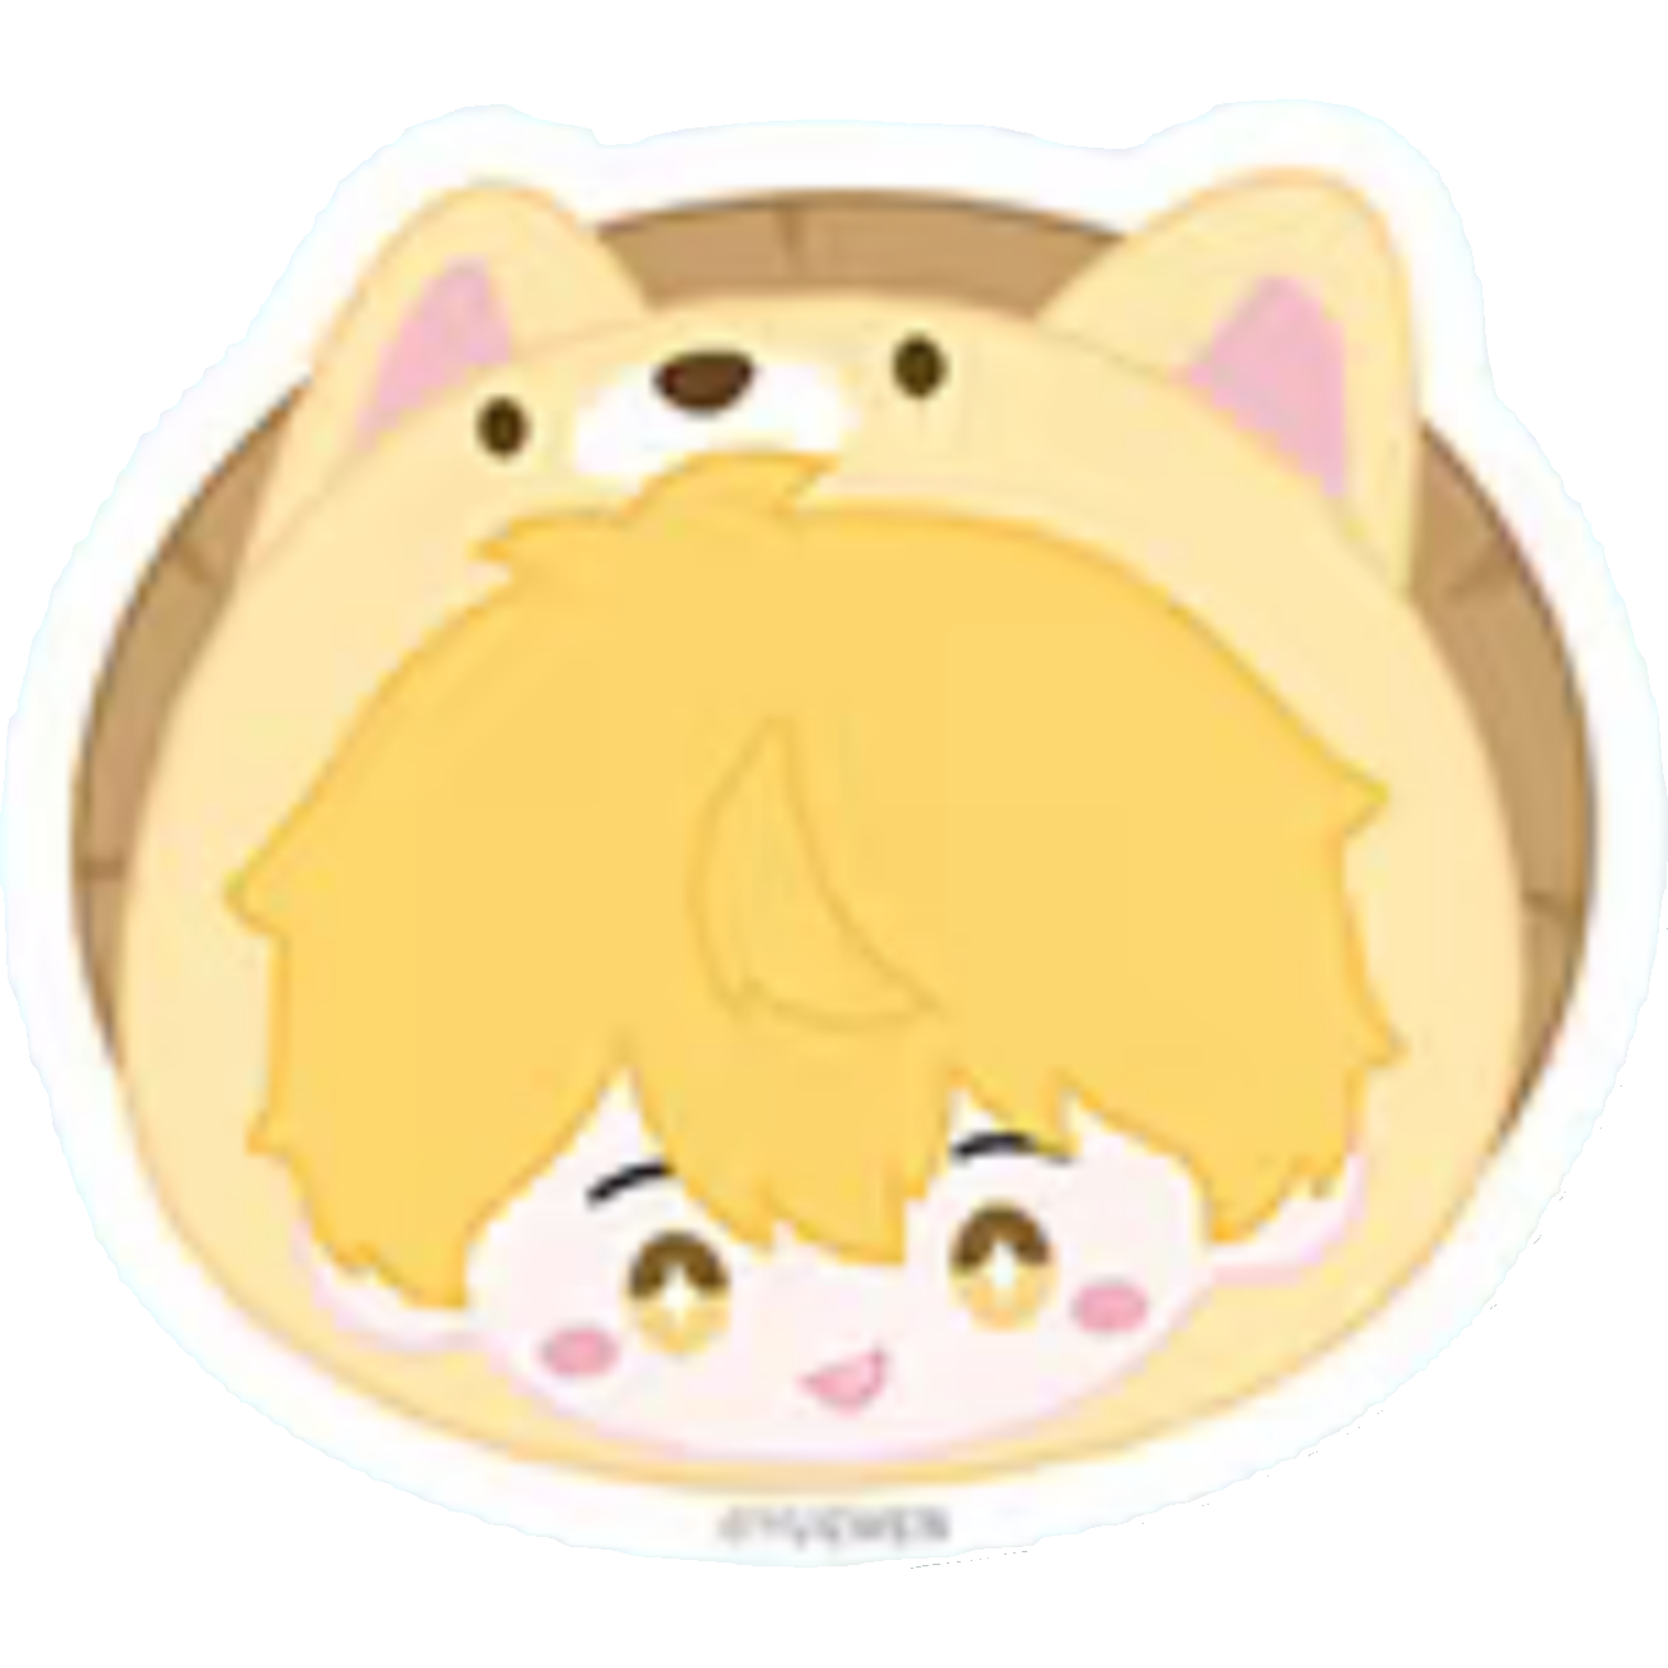
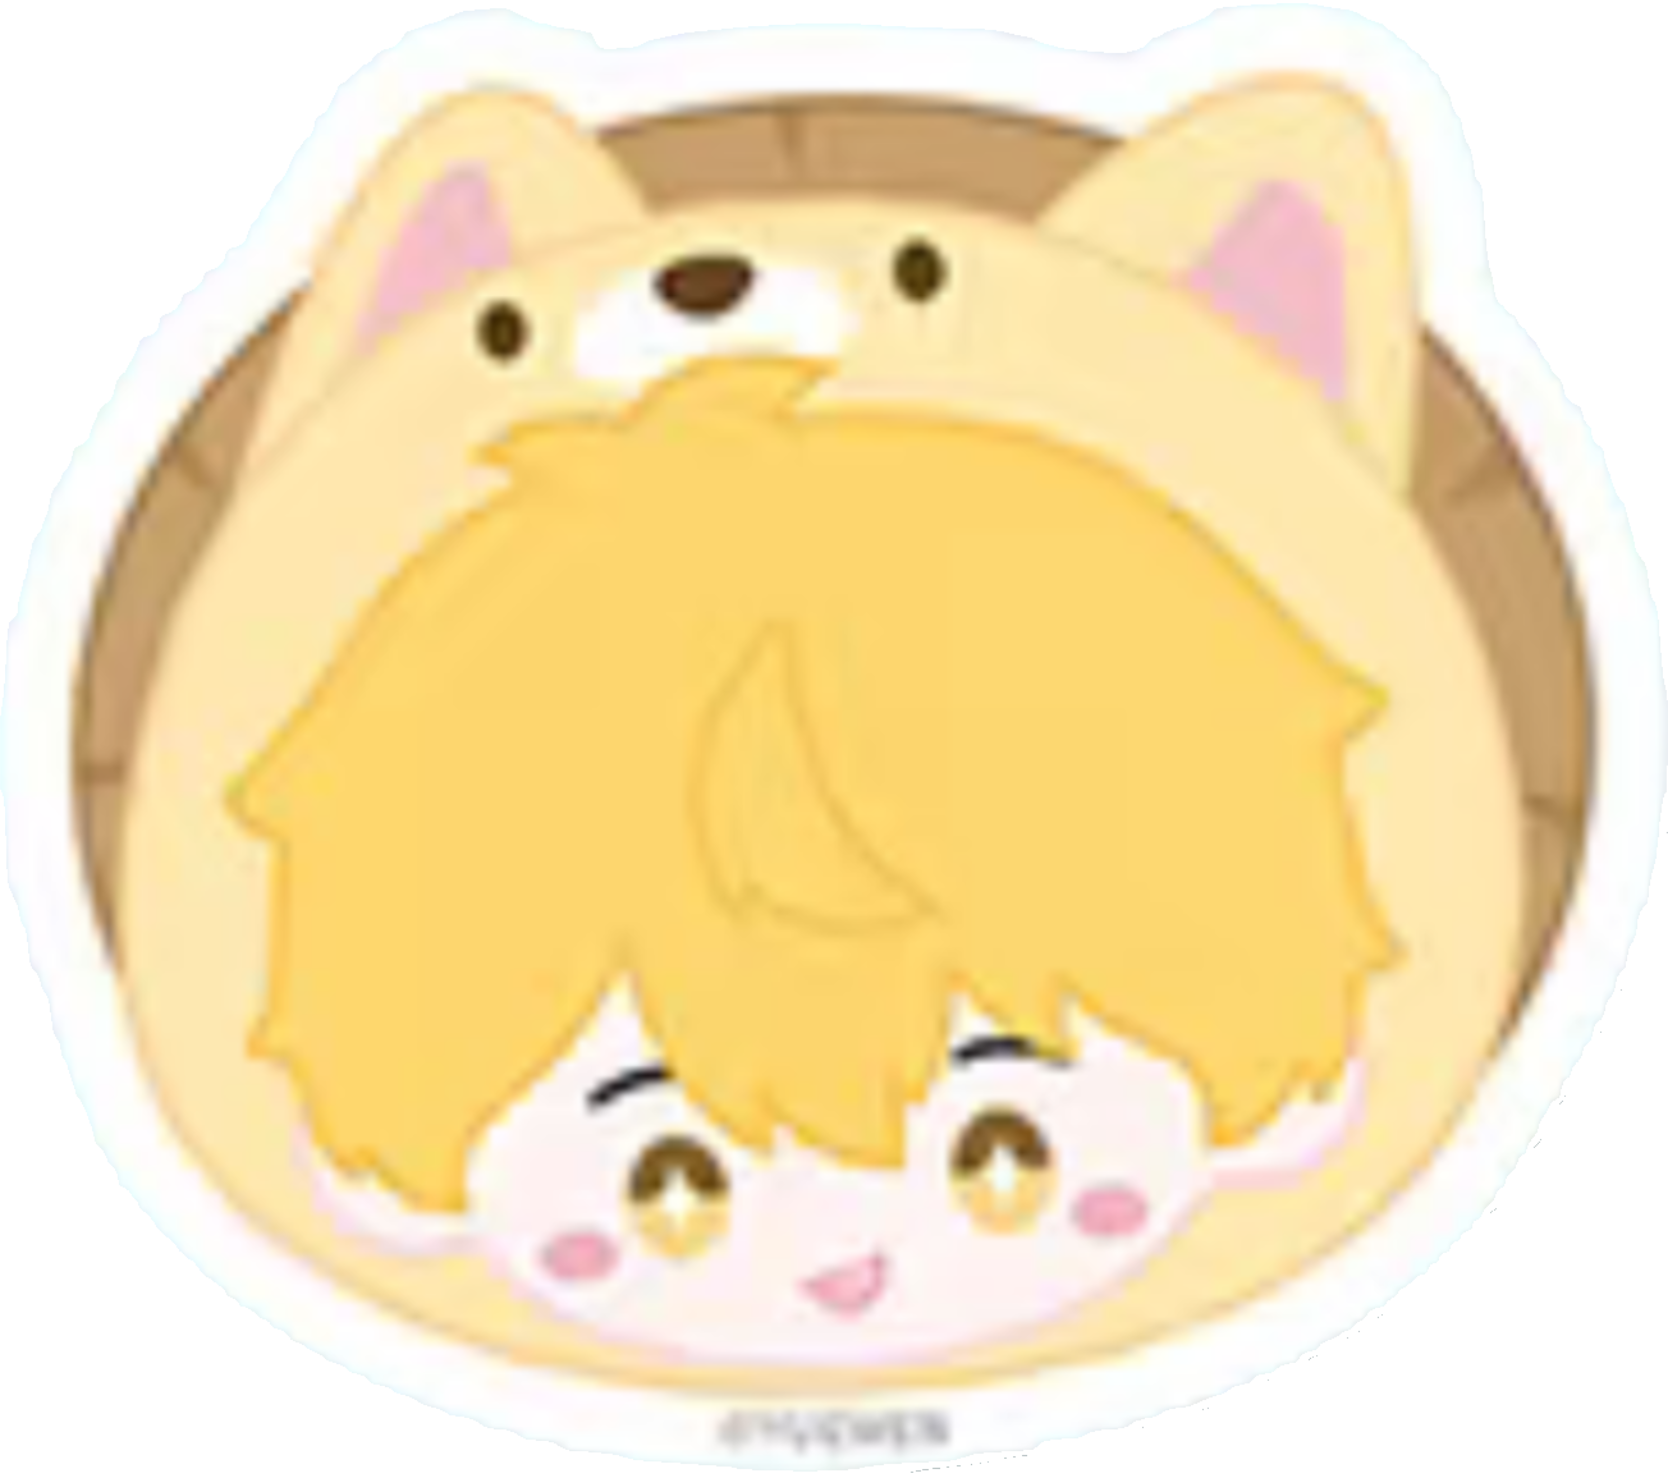
Finalize Windows companion visuals and packaging

diff --git a/Windows/CharacterEfficiencyIsland.Windows/Core/Models.cs b/Windows/CharacterEfficiencyIsland.Windows/Core/Models.cs
@@ -51,10 +51,14 @@ public sealed class AppProfile
     public string StorageId { get; set; } = "CharacterEfficiencyIsland";
     public string MutexId { get; set; } = "com.example.character-efficiency-island.windows";
     public string CompanionStatusText { get; set; } = "稳步推进";
+    public string CompanionBreakStatusText { get; set; } = "休息中";
     public Dictionary<string, string> Titles { get; set; } = new();
     public Dictionary<string, string> Details { get; set; } = new();
     public Dictionary<string, string> IslandAssets { get; set; } = new();
     public Dictionary<string, string> PanelAssets { get; set; } = new();
+    public Dictionary<string, int> CompanionCropLeft { get; set; } = new();
+    public Dictionary<string, int> CompanionCropTop { get; set; } = new();
+    public Dictionary<string, int> CompanionCropRight { get; set; } = new();
     public Dictionary<string, int> CompanionCropBottom { get; set; } = new();
     public List<SoftReminder> Reminders { get; set; } = new();
     public Dictionary<string, PanelPlacement> PanelPlacements { get; set; } = new();
@@ -94,8 +98,11 @@ public sealed class AppProfile
         });
     public PanelPlacement Placement(CharacterMode mode) =>
         PanelPlacements.TryGetValue(ModeKey(mode), out var value) ? value : new PanelPlacement();
+    public int CompanionLeftCrop(CharacterMode mode) => Crop(CompanionCropLeft, mode);
+    public int CompanionTopCrop(CharacterMode mode) => Crop(CompanionCropTop, mode);
+    public int CompanionRightCrop(CharacterMode mode) => Crop(CompanionCropRight, mode);
     public int CompanionBottomCrop(CharacterMode mode) =>
-        CompanionCropBottom.TryGetValue(ModeKey(mode), out var value) ? Math.Max(0, value) : 0;
+        Crop(CompanionCropBottom, mode);
 
     public static string ModeKey(CharacterMode mode) => mode switch
     {
@@ -109,6 +116,8 @@ public sealed class AppProfile
 
     private static string Value(Dictionary<string, string> source, string key, string fallback) =>
         source.TryGetValue(key, out var value) && !string.IsNullOrWhiteSpace(value) ? value : fallback;
+    private static int Crop(Dictionary<string, int> source, CharacterMode mode) =>
+        source.TryGetValue(ModeKey(mode), out var value) ? Math.Max(0, value) : 0;
 }
 
 public sealed class AppSettings

diff --git a/Windows/CharacterEfficiencyIsland.Windows/Core/AssetLoader.cs b/Windows/CharacterEfficiencyIsland.Windows/Core/AssetLoader.cs
@@ -13,28 +13,32 @@ internal static class AssetLoader
     public static ImageSource Image(
         string assetName,
         int rotationDegrees = 0,
+        int cropLeft = 0,
         int cropTop = 0,
+        int cropRight = 0,
         int cropBottom = 0)
     {
-        if (rotationDegrees == 0 && cropTop == 0 && cropBottom == 0)
+        if (rotationDegrees == 0 && cropLeft == 0 && cropTop == 0 && cropRight == 0 && cropBottom == 0)
         {
             return ImageFromPack(assetName, $"/Assets/{assetName}.png");
         }
 
-        var cacheKey = $"{assetName}|rotation:{rotationDegrees}|crop-top:{cropTop}|crop-bottom:{cropBottom}";
+        var cacheKey = $"{assetName}|rotation:{rotationDegrees}|crop-left:{cropLeft}|crop-top:{cropTop}|crop-right:{cropRight}|crop-bottom:{cropBottom}";
         if (Cache.TryGetValue(cacheKey, out var cached))
         {
             return cached;
         }
 
         var source = (BitmapSource)ImageFromPack(assetName, $"/Assets/{assetName}.png");
-        if (cropTop > 0 || cropBottom > 0)
+        if (cropLeft > 0 || cropTop > 0 || cropRight > 0 || cropBottom > 0)
         {
+            var left = Math.Clamp(cropLeft, 0, source.PixelWidth - 1);
             var top = Math.Clamp(cropTop, 0, source.PixelHeight - 1);
+            var width = Math.Max(1, source.PixelWidth - left - Math.Max(0, cropRight));
             var height = Math.Max(1, source.PixelHeight - top - Math.Max(0, cropBottom));
             source = new CroppedBitmap(
                 source,
-                new Int32Rect(0, top, source.PixelWidth, height));
+                new Int32Rect(left, top, width, height));
         }
         if (rotationDegrees != 0)
         {

diff --git a/Windows/CharacterEfficiencyIsland.Windows/Views/CompanionWindow.xaml.cs b/Windows/CharacterEfficiencyIsland.Windows/Views/CompanionWindow.xaml.cs
@@ -46,9 +46,15 @@ public partial class CompanionWindow : Window, ICharacterSurface
     {
         CharacterImage.Source = AssetLoader.Image(
             state.Profile.IslandAsset(state.DisplayMode),
+            cropLeft: state.Profile.CompanionLeftCrop(state.DisplayMode),
+            cropTop: state.Profile.CompanionTopCrop(state.DisplayMode),
+            cropRight: state.Profile.CompanionRightCrop(state.DisplayMode),
             cropBottom: state.Profile.CompanionBottomCrop(state.DisplayMode));
         var epm = state.CurrentApm == 0 ? "--" : state.CurrentEpm.ToString("00");
-        MetricsLabel.Text = $"{state.Profile.CompanionStatusText} {state.FormatSeconds(state.WorkSeconds)} · EPM {epm}";
+        var statusText = state.Mode == CharacterMode.BreakTime
+            ? state.Profile.CompanionBreakStatusText
+            : state.Profile.CompanionStatusText;
+        MetricsLabel.Text = $"{statusText} {state.FormatSeconds(state.WorkSeconds)} · EPM {epm}";
         MetricsLabel.ToolTip = MetricsLabel.Text;
         if (state.Settings.ShowPersistentSurface)
         {
